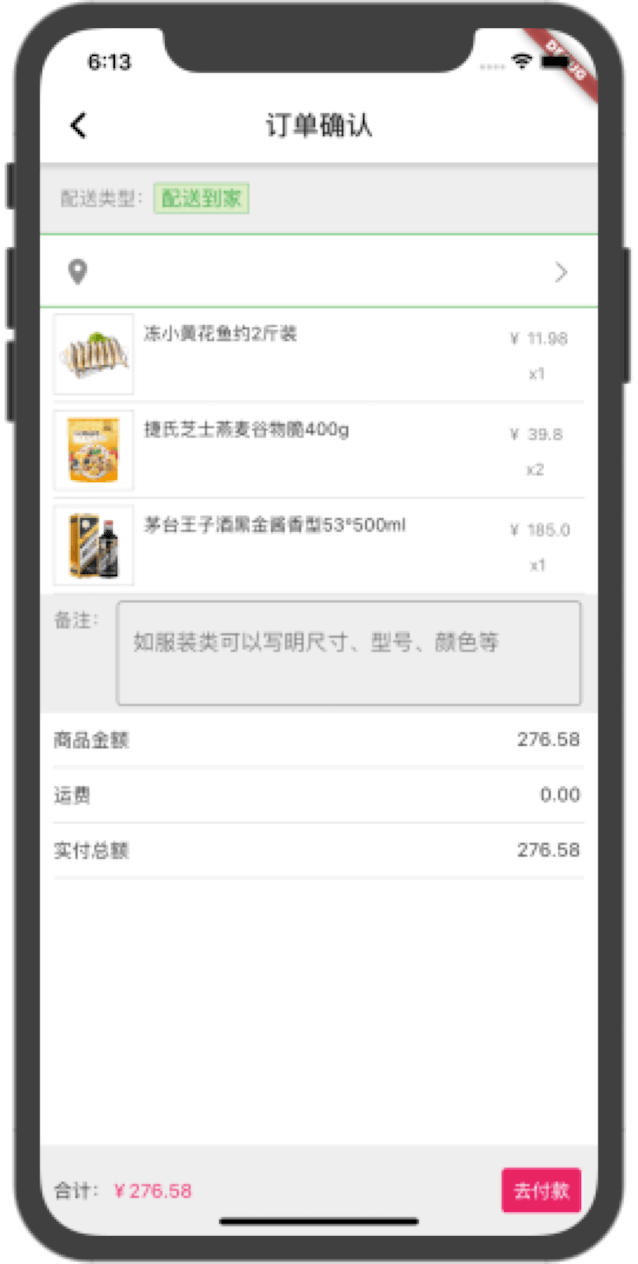
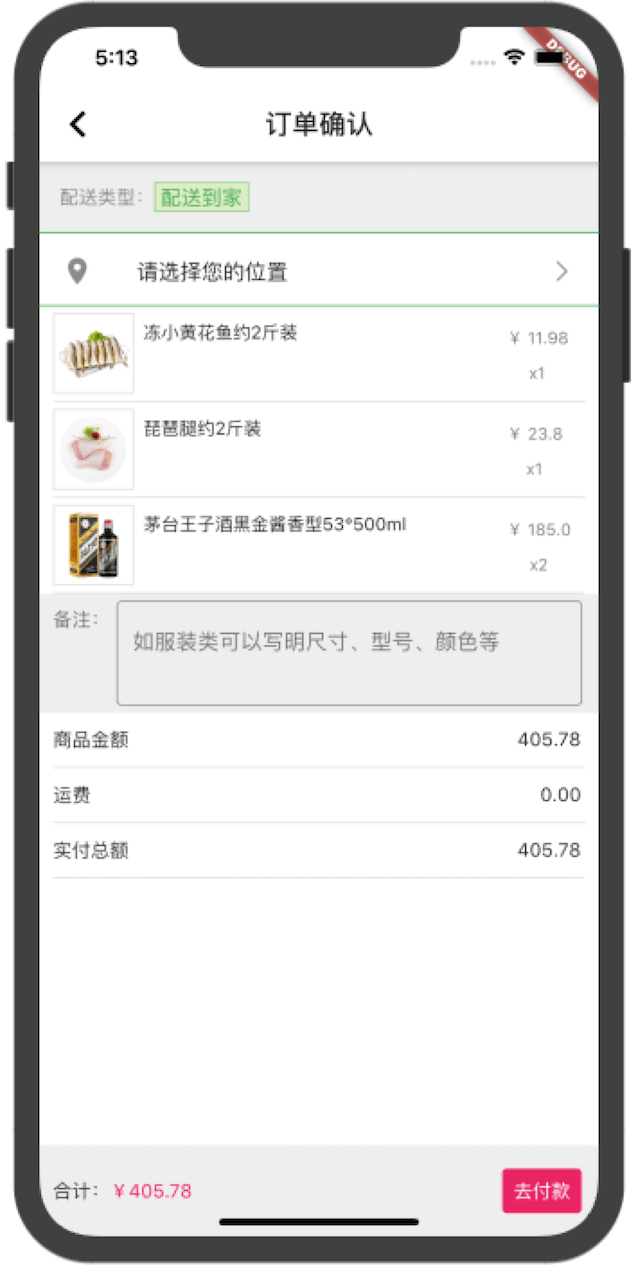
fix bugs

diff --git a/lib/pages/order/views/order_position_widget.dart b/lib/pages/order/views/order_position_widget.dart
@@ -23,9 +23,10 @@ class PositionWidget extends StatelessWidget {
         child: ListTile(
           leading: Icon(Icons.location_on),
           title: Text(
-            '',
+            '请选择您的位置',
             style: TextStyle(
-              fontSize: 16
+              fontSize: 16,
+              color: Colors.black87
             ),
           ),
           trailing: Image.asset('images/mine/right_arrow.png'),
